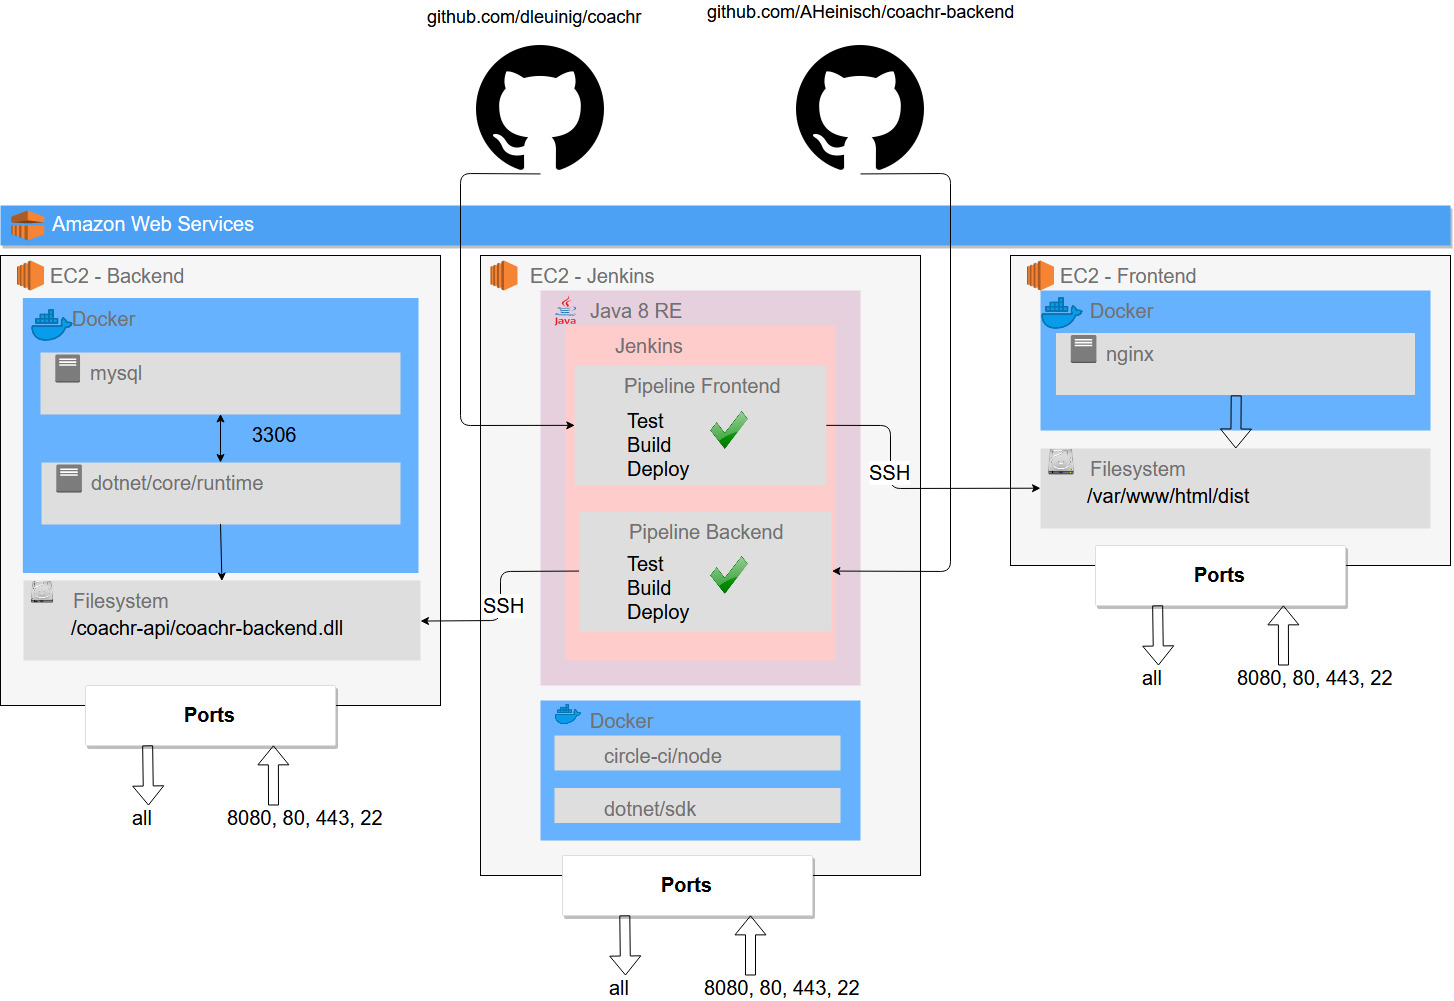
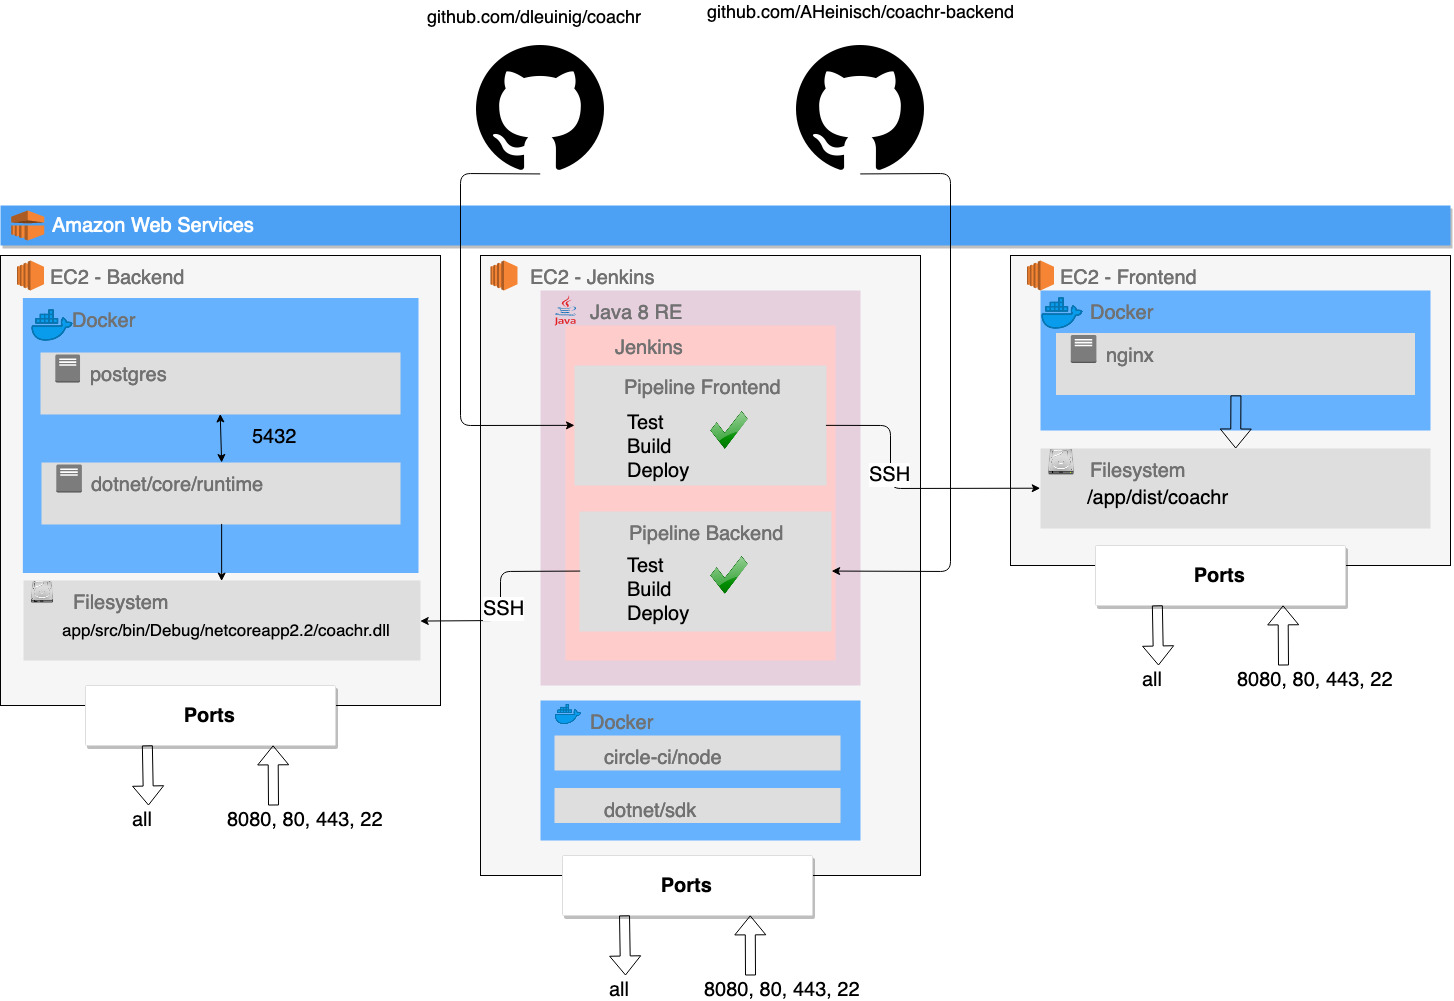
Woche 10-1

diff --git a/docs/cloud-docker-jenkins/index.md b/docs/cloud-docker-jenkins/index.md
@@ -331,8 +331,19 @@ docker info
 
 ```bash
 # Container starten
-docker run -p 80:80 -d --name coachr -v /home/ec2-user/app/dist:/usr/share/nginx/html -t nginx
+docker run -p 80:80 -d --name coachr -v /home/ec2-user/app/dist/coachr:/usr/share/nginx/html -t nginx
 # Die erfolgreich getestete und gebaute Anwendung wird von Jenkins in den Ordner ~/app deployed und an den Contanier weitergereicht 
+```
+
+**EC2-instance-backend**
+
+```bash
+########### Docker installieren --> EC2-instance-coachr-frontend ###########
+
+# Datenbank starten
+docker run -p 5432:5432 --rm --name coachr-db -e POSTGRES_PASSWORD=testsystem -d postgres
+# Dotnet API starten
+docker run -it --rm -v ~/app/src/bin/Debug/netcoreapp2.2/:/ --link coachr-db:coachr-db-p 80:80 --name coachr-api mcr.microsoft.com/dotnet/core/sdk
 ```
 
 **EC2-instance-Jenkins**
@@ -342,7 +353,7 @@ docker run -p 80:80 -d --name coachr -v /home/ec2-user/app/dist:/usr/share/nginx
 sudo wget -O /etc/yum.repos.d/jenkins.repo http://pkg.jenkins.io/redhat/jenkins.repo
 sudo rpm --import https://pkg.jenkins.io/redhat/jenkins.io.key      
 sudo yum install jenkins -y
-# Jenkins ist eine Java Anwendung und benötigt mindestens Java 7, nutzt man Pipeline mit Git muss auch das installiert werden
+# Jenkins ist eine Java Anwendung und benötigt mindestens Java 7, nutzt man Pipelines mit Git, muss auch das installiert werden
 sudo yum install java-1.8.0-openjdk.x86_64 -y
 # Git
 sudo yum install git -y
@@ -353,44 +364,33 @@ sudo yum install git -y
 sudo usermod -a -G docker jenkins
 # Anschließend Jenkins starten und sich das Initialpasswort anzeigen lassen
 sudo service jenkins start
-sudo cat /var/lib/jenkins/secrets/initialAdminPassword
 # Jetzt ist der Server per http://<server-url>:8080 zu erreichen
-```
+# Damit das Initialpasswort generiert wird muss man einmal die URL ansteuern
+sudo cat /var/lib/jenkins/secrets/initialAdminPassword
 
-**EC2-instance-backend**
-
-```bash
-# TODO:
-docker run -p 5432:5432 --rm --name coachr-db -e POSTGRES_PASSWORD=testsystem -d postgres
-```
-
-**Dotnet Umgebung**
-
-```bash
-git clone http://www.github.com/AHeinisch/coachr-backend
-
-docker run -it --rm -v ~/coachr-backend:/coachr-backend -p 80:80 --name coachr-api mcr.microsoft.com/dotnet/core/sdk
-
-docker cp appsettings.json bdec403902e3:/coachr-backend/src
-
-dotnet restore
-
-dotnet bin/ ... /coachr-backend.dll
 ```
 
 ### Jenkins
 
+TODO: Woche 10
+
 #### Konfiguration
+
+- Plugins installieren 
+  - Publish Over SSH
+- SSH Server anlegen
+- GitHub Hook einrichten
+- Benutzer erstellen 
 
 #### Pipelines einrichten
 
-#### Github Hok einrichten 
+- Jenkinsfile erstellen
+- Geheime-Dateien zu den Repos hinzufügen
+- SSH File Transfer
 
 ### Continuous Integration in Aktion
 
-
-
-
+TODO: Woche 10
 
 ## Quellen
 

diff --git a/docs/devdiaries/alexanderbergmann.md b/docs/devdiaries/alexanderbergmann.md
@@ -94,7 +94,22 @@ __27.05.2019 - 02.06.2019__
 
 __03.06.2019 - 09.06.2019__
 
+| Datum      | Tätigkeit                                     | Dauer | Zusatz |
+| ---------- | --------------------------------------------- | ----- | ------ |
+| 04.06.2019 | Wöchentliches Meeting - Projektarbeit         | 5,5 h |        |
+| 06.06.2019 | Dokumentation bearbeiten                      | 2 h   |        |
+| 07.06.2019 | Deploy Pipeline coachr-Frontend               | 3 h   |        |
+| 09.06.2019 | Deploy Pipeline Coach-Backend                 | 2 h   |        |
+| 09.06.2019 | Berechtigung Plugin für Jenkins konfigurieren | 1 h   |        |
+
+## Woche 10
+
+__10.06.2019 - 16.06.2019__
+
 | Datum      | Tätigkeit                             | Dauer | Zusatz |
 | ---------- | ------------------------------------- | ----- | ------ |
-| 04.06.2019 | Wöchentliches Meeting - Projektarbeit | 5,5 h |        |
-| 06.06.2019 | Dokumentation bearbeiten              |       |        |
+| 10.06.2019 | Delpoy Pipeline Coach-Backend         | 3 h   |        |
+| 10.06.2019 | Dokumentation bearbeiten              | 0,5 h |        |
+| 11.06.2019 | Wöchentliches Meeting - Projektarbeit |       |        |
+|            |                                       |       |        |
+
